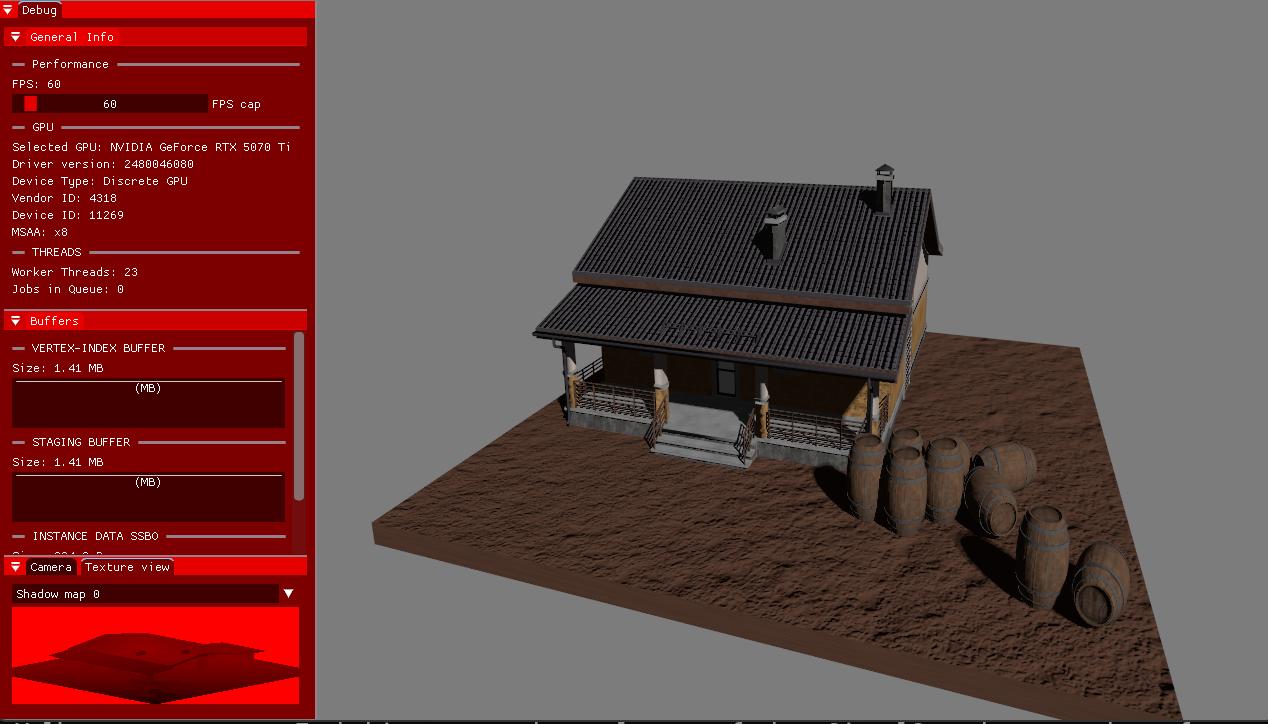
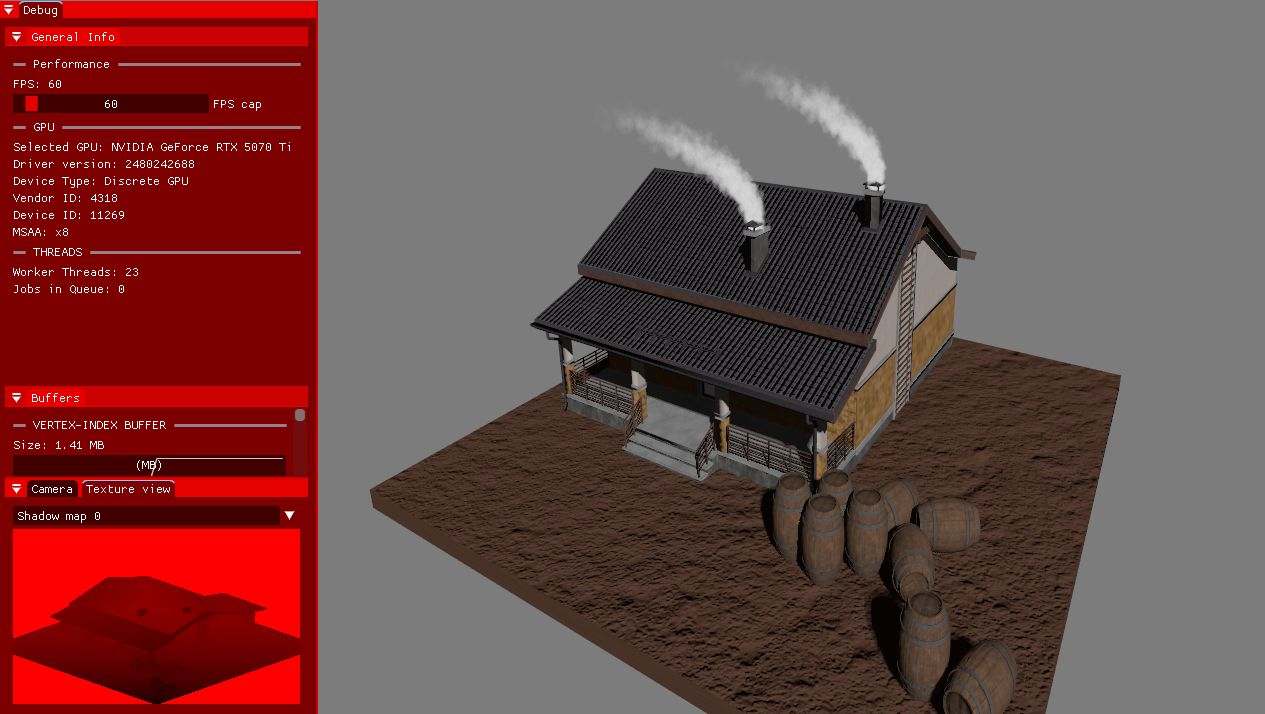
Updated readme

Changed region(s): [[0.0, 0.0, 1.0, 1.0]]

diff --git a/src/core/cpps/engine.cpp b/src/core/cpps/engine.cpp
@@ -1048,7 +1048,7 @@ void Engine::loadDemoScene() {
 
     LightSource lightSource{
         .position = glm::vec4(-5.0, 50.0, -50.0, 10.0),
-        .color = glm::vec4(1.0,1.0,1.0,100.0)
+        .color = glm::vec4(1.0,1.0,1.0,50.0)
     };
 
     std::vector<Sphere> spheres;
@@ -1063,7 +1063,9 @@ void Engine::loadDemoScene() {
 
     std::vector<RayVertex> vertices;
     std::vector<uint32_t> indices;
-    Mesh::loadForRayTrace(vertices, indices, "square.obj", glm::vec3(80.0f, 80.0f, 1.0f), glm::vec3(0.0f,-20.0f, 0.0f), glm::vec3(-90.0f,0.0f,0.0f));
+    Mesh::loadForRayTrace(vertices, indices, "square.obj", glm::vec3(80.0f, 80.0f, 1.0f), glm::vec3(0.0f,-30.0f, 0.0f), glm::vec3(-90.0f,0.0f,0.0f));
+    Mesh::loadForRayTrace(vertices, indices, "square.obj", glm::vec3(80.0f, 80.0f, 1.0f), glm::vec3(0.0f,80.0f, 0.0f), glm::vec3(90.0f,0.0f,0.0f));
+    Mesh::loadForRayTrace(vertices, indices, "square.obj", glm::vec3(80.0f, 80.0f, 1.0f), glm::vec3(0.0f,0.0f, 70.0f), glm::vec3(-180.0f,0.0f,0.0f));
 
     BufferManager::prepareRayTracingData(spheres, lights, vertices, indices);
 

diff --git a/src/gameObjects/headers/camera.h b/src/gameObjects/headers/camera.h
@@ -20,7 +20,7 @@ public:
     float fov;
     float far;
     float acceleration;
-    float maxSpeed; 
+    float maxSpeed;
 
     Camera(glm::vec3 position = glm::vec3(15.0f, 15.0f, 15.0f),
         glm::vec3 front = glm::vec3(-0.577382f, -0.577288f, -0.577382f),
@@ -40,7 +40,9 @@ public:
 
     void updateCameraVectors();
 
+#ifdef RAY_TRACING
     RayTracingCameraObject* getRayTracingDetails();
+#endif
 
     glm::mat4 getViewMatrix();
     glm::mat4 getProjectionMatrix();
@@ -72,6 +74,6 @@ public:
     void setSensitivity(float s);
     void setFOV(float fov);
     void setFar(float far);
-	void setAcceleration(float a);
-	void setMaxSpeed(float ms);
+    void setAcceleration(float a);
+    void setMaxSpeed(float ms);
 };

diff --git a/src/gameObjects/cpps/camera.cpp b/src/gameObjects/cpps/camera.cpp
@@ -52,7 +52,7 @@ glm::mat4 Camera::getProjectionMatrix() {
 
     return proj;
 }
-
+#ifdef RAY_TRACING
 RayTracingCameraObject* Camera::getRayTracingDetails() {
 
     RayTracingCameraObject* cam = new RayTracingCameraObject();
@@ -64,6 +64,7 @@ RayTracingCameraObject* Camera::getRayTracingDetails() {
 
     return cam;
 }
+#endif
 
 // --- Getters ---
 const glm::vec3& Camera::getPosition() const { return position; }

diff --git a/src/core/cpps/inputManager.cpp b/src/core/cpps/inputManager.cpp
@@ -103,7 +103,9 @@ void InputManager::cursorPosCallBack(GLFWwindow* window, double xpos, double ypo
 
         Engine::camera.pitch = glm::clamp(Engine::camera.pitch, -89.0f, 89.0f);
 
+        #ifdef RAY_TRACING
         Engine::notMoving = 0.0f;
+        #endif  
     }
     else {
         Engine::lastKnownMousePos.first = xpos;

diff --git a/src/core/headers/vertex.h b/src/core/headers/vertex.h
@@ -24,6 +24,7 @@ struct CameraVPObject {
     glm::mat4 proj;
 };
 
+#ifdef RAY_TRACING
 struct RayTracingCameraObject {
     glm::vec4 up;
     glm::vec4 forward;
@@ -31,6 +32,7 @@ struct RayTracingCameraObject {
     glm::vec4 position;
     glm::vec4 utils;
 };
+#endif
 
 struct CameraObject
 {

diff --git a/src/core/headers/Prometheus.h b/src/core/headers/Prometheus.h
@@ -4,8 +4,8 @@
 #pragma once
 
 //#define RELEASE
-#define RAY_TRACING
-#define FULLSCREEN_START
+//#define RAY_TRACING
+//#define FULLSCREEN_START
 
 #include <iostream>
 #define GLFW_INCLUDE_VULKAN

diff --git a/README.md b/README.md
@@ -34,9 +34,29 @@ Check the feature list below to see what is currently implemented and what is pl
 ### 3. Platforms
 
 - Windows ✅ (I recommend Visual Studio Community edition 2026)
-- Linux ⚠ (Probably, not tested though)
+- Linux ⚠ (Probably not)
 - Mac ⚠ (No idea I can't test it since i don't have a device)
 
+# RAY TRACING
+- You can enable ray tracing in the `src/core/headers/Prometheus.h` file by uncommenting this line at the top:
+	```cpp
+	//#define RAY_TRACING
+	```
+- Window size is static once the application starts, so if you which to start at a certain size call:
+	```cpp
+	static void startAtWindowSize(int width, int height)
+	```
+- Inside `void Engine::initWindow(Engine* engine)` like so:
+	```cpp
+     #else
+        Engine::startAtWindowSize(1920, 1080);
+        Engine::window = glfwCreateWindow(WIDTH, HEIGHT, "Prometheus", nullptr, nullptr);
+    #endif
+	```
+- To start with a maximised window, uncomment `//#define FULLSCREEN_START` in `Prometheus.h`
+- The demo after running the program you will be able to move around the scene with the normal camera controls.
+- When the camera stops moving, the rendering starts. This is what you should see after some rendering and moving around by running `Engine::loadDemoScene();` at the top of `mainLoop()`:
+![Demo scene ray trace example](screenshots/rayTracingDemo.png)
 # USAGE
 
 1. Clone the repo
@@ -86,6 +106,7 @@ Check the feature list below to see what is currently implemented and what is pl
 - Dockable GUI
 - Debug line drawing
 - Particle effects
+- Ray-tracing (Path tracing)
 
 ## In progress
 
@@ -97,7 +118,6 @@ Check the feature list below to see what is currently implemented and what is pl
 # FUTURE CHANGES
 
 - More than just .obj model formats
-- Ray-tracing (Path tracing)
 - Emission maps etc.
 - Reflections
 - Animations
